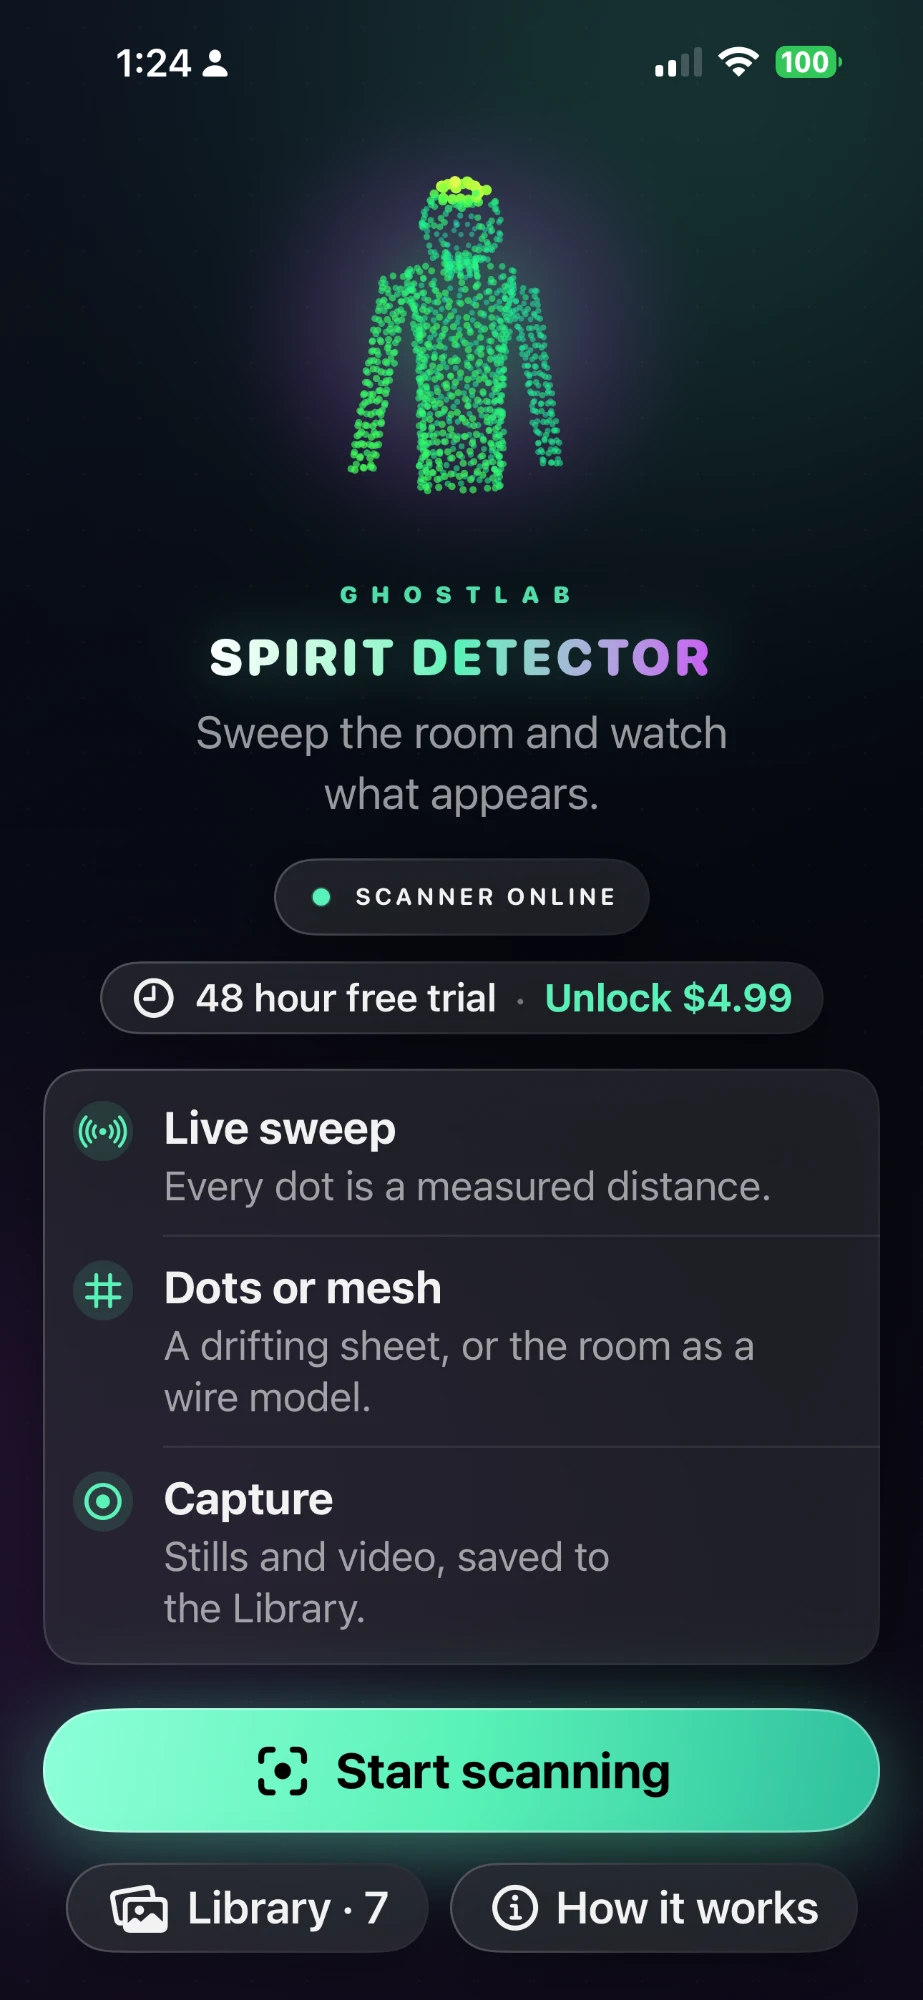
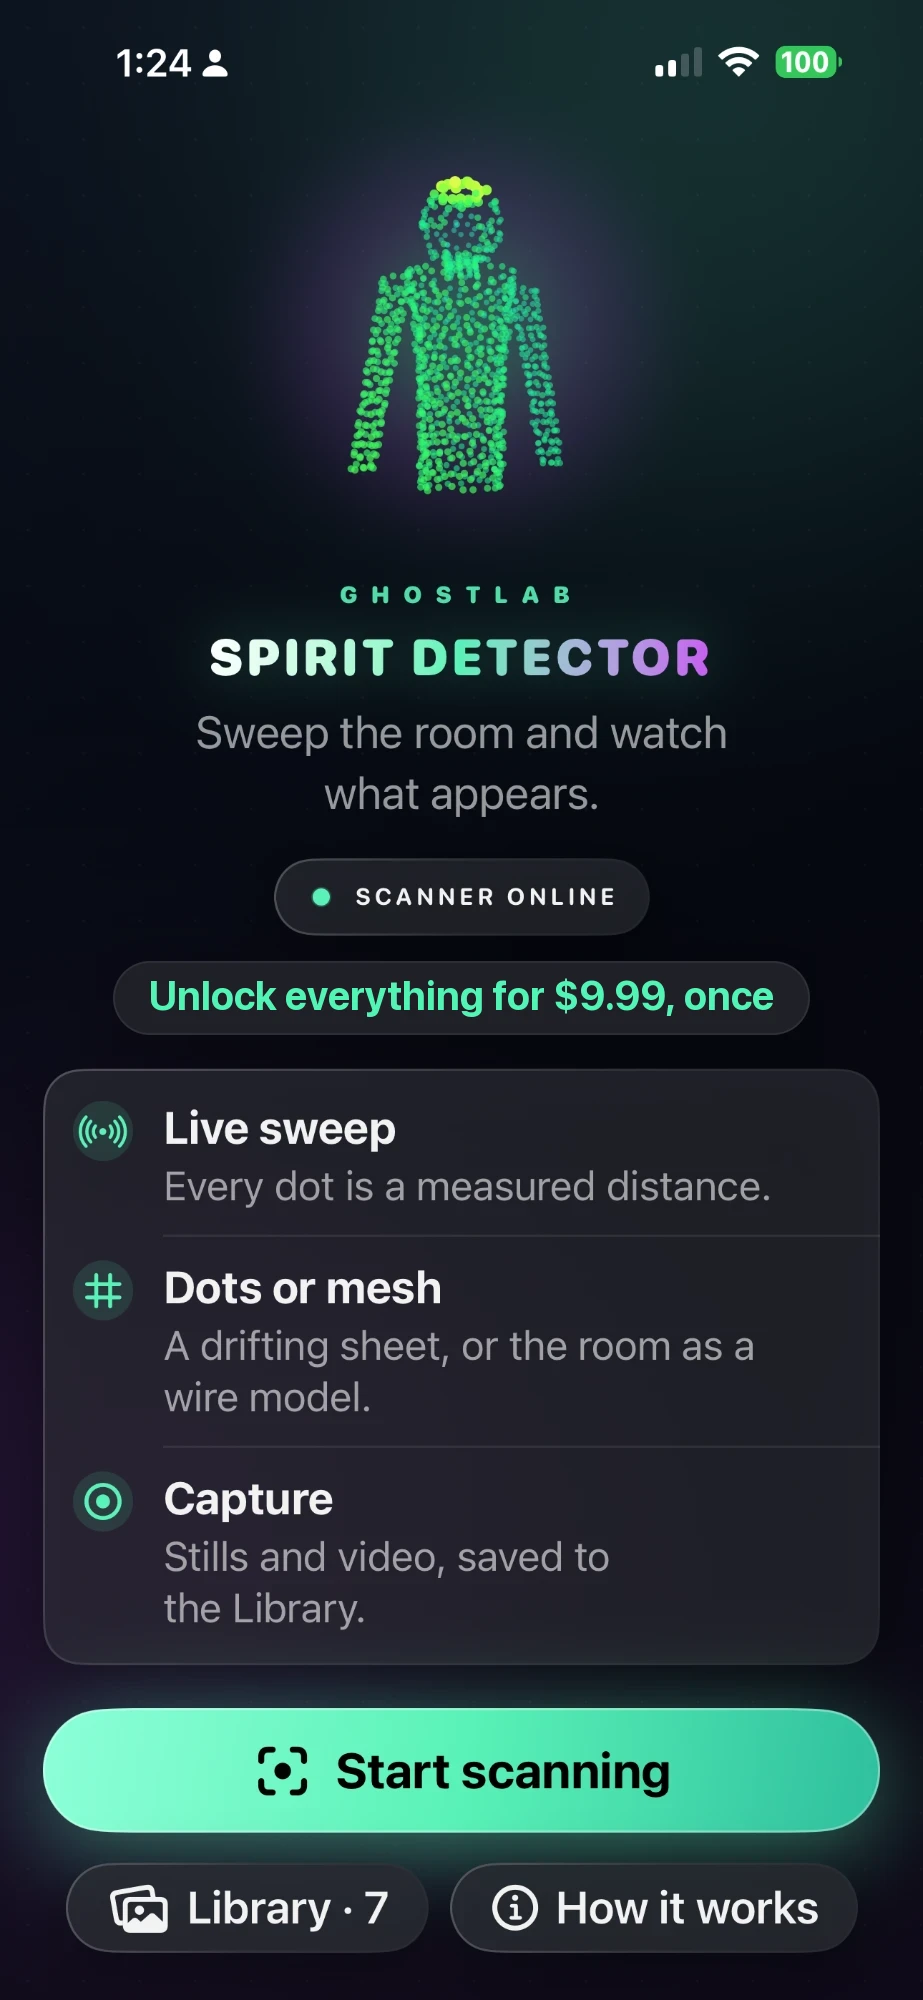
Spirit Detector: $9.99 once, no free trial for new customers
The privacy page, the Spirit Detector page, Quiet Hours and the Halloween
FAQ now say Spirit Detector is $9.99 once for everything, bought only on
iPhone Pro or iPad Pro. The privacy page keeps a line for trials already
running and for earlier buyers' one 3D Map and clips trial. The home
screenshot's trial chip now shows the 1.0.15 chip, "Unlock everything
for $9.99, once".

Changed region(s): [[0.1213, 0.465, 0.9101, 0.527]]

diff --git a/spirit-detector.html b/spirit-detector.html
@@ -6,7 +6,7 @@
   <meta name="referrer" content="strict-origin-when-cross-origin" />
   <meta name="viewport" content="width=device-width, initial-scale=1, viewport-fit=cover" />
   <title>Spirit Detector - GhostLab</title>
-  <meta name="description" content="GhostLab: Spirit Detector draws a room from the LiDAR scanner on iPhone Pro and iPad Pro, one measured dot at a time. 48 hours free from the first scan. LiDAR unlock $4.99 once. Side-by-side recording and 3D mapping are an additional $4.99 once. Complete Pro is $9.99 once." />
+  <meta name="description" content="GhostLab: Spirit Detector draws a room from the LiDAR scanner on iPhone Pro and iPad Pro, one measured dot at a time. Everything, including side-by-side recording and 3D mapping, is $9.99 once, for life." />
   <meta name="theme-color" content="#07090f" />
   <meta name="color-scheme" content="dark" />
   <link rel="canonical" href="https://ghostlab.icu/spirit-detector.html" />
@@ -171,11 +171,11 @@
             <a class="store-badge store-badge-apple" data-store-keep href="https://apps.apple.com/us/app/ghostlab-spirit-detector/id6814905065" target="_blank" rel="noopener noreferrer">
               <img src="assets/store/download-on-the-app-store.svg?v=20261002-cache" width="120" height="40" alt="Download GhostLab: Spirit Detector on the App Store" />
             </a>
-            <p class="sd-price"><strong>48 hours free</strong> from the first scan, then $4.99 once. Side-by-side recording and 3D mapping are an additional $4.99 once. Complete Pro is $9.99 once. No subscription. No ads.</p>
+            <p class="sd-price"><strong>$9.99 once, yours for life.</strong> Scanning, side-by-side recording and 3D mapping all included. No subscription. No ads.</p>
           </div>
         </div>
         <div class="shot-frame sd-hero-shot">
-          <img src="assets/spiritdetector/home.webp?v=20261002-cache" width="923" height="2000" alt="Spirit Detector home screen: a standing figure drawn in green dots above the name, a Scanner Online status, the 48 hour free trial, and a Start scanning button" />
+          <img src="assets/spiritdetector/home.webp?v=20261116" width="923" height="2000" alt="Spirit Detector home screen: a standing figure drawn in green dots above the name, a Scanner Online status, Unlock everything for $9.99 once, and a Start scanning button" />
         </div>
       </header>
 
@@ -209,7 +209,7 @@
               <li>Dots, mesh, or both, switched without losing the map you have built</li>
               <li>Flashlight in the top bar, for rooms too dark to track in</li>
               <li>Snapshot and Record from the dock, saved to the Library</li>
-              <li>Side-by-side recording and 3D mapping are an additional $4.99 once</li>
+              <li>Side-by-side recording and 3D mapping are included</li>
               <li>Share a capture with the team, or save it to Photos</li>
             </ul>
           </div>
@@ -256,7 +256,7 @@
               <svg viewBox="0 0 24 24" fill="none" stroke="currentColor" stroke-width="1.75" stroke-linecap="round" stroke-linejoin="round"><rect x="3" y="6" width="13" height="12" rx="2.5"/><path d="m16 10.5 5-3v9l-5-3"/></svg>
             </div>
             <h3>Record for the review</h3>
-            <p>Park the phone on a doorway or hallway and record. Stills and video land in the Library, ready to watch back, share with the team, or save to Photos. Side-by-side recording and 3D mapping are an additional $4.99 once.</p>
+            <p>Park the phone on a doorway or hallway and record. Stills and video land in the Library, ready to watch back, share with the team, or save to Photos. With side-by-side recording, the room and the camera play together in one video.</p>
           </article>
           <article class="card reveal">
             <div class="card-icon warning" aria-hidden="true">
@@ -332,8 +332,8 @@
             <div class="card-icon magenta" aria-hidden="true">
               <svg viewBox="0 0 24 24" fill="none" stroke="currentColor" stroke-width="1.75" stroke-linecap="round" stroke-linejoin="round"><circle cx="12" cy="12" r="8.5"/><path d="M12 7.5V12l3 2"/></svg>
             </div>
-            <h3>Two days free, then yours</h3>
-            <p>Every feature is open for 48 hours from your first scan. Then the LiDAR unlock is $4.99 once. Side-by-side recording and 3D mapping are an additional $4.99 once. The complete Pro version is $9.99 once.</p>
+            <h3>One payment, yours for life</h3>
+            <p>$9.99 once unlocks every feature: live scanning, side-by-side recording and 3D mapping. It can be bought only on an iPhone Pro or iPad Pro, the models with the LiDAR scanner. If you bought Spirit Detector before, you keep it and can add side-by-side recording and 3D mapping for $4.99.</p>
           </article>
         </div>
       </section>
@@ -342,7 +342,7 @@
         <div class="final-cta reveal">
           <img class="sd-cta-icon" src="assets/sphere/spiritdetector.png?v=20261002-cache" width="88" height="88" alt="" />
           <h2>Take it on your next investigation.</h2>
-          <p class="lede">GhostLab: Spirit Detector is on the App Store for iPhone Pro and iPad Pro. 48 hours free from the first scan, then $4.99 once. Side-by-side recording and 3D mapping are an additional $4.99 once. Complete Pro is $9.99 once. It runs on its own, next to GhostLab: Paranormal Toolkit or any other kit you carry.</p>
+          <p class="lede">GhostLab: Spirit Detector is on the App Store for iPhone Pro and iPad Pro. $9.99 once, yours for life, with side-by-side recording and 3D mapping included. It runs on its own, next to GhostLab: Paranormal Toolkit or any other kit you carry.</p>
           <div class="hero-actions">
             <a class="store-badge store-badge-apple" data-store-keep href="https://apps.apple.com/us/app/ghostlab-spirit-detector/id6814905065" target="_blank" rel="noopener noreferrer">
               <img src="assets/store/download-on-the-app-store.svg?v=20261002-cache" width="120" height="40" alt="Download GhostLab: Spirit Detector on the App Store" />

diff --git a/privacy-spiritdetector.html b/privacy-spiritdetector.html
@@ -30,7 +30,7 @@
 
 <p style="margin:0 0 1rem"><a href="index.html">← GhostLab home</a> · <a href="support.html">Support</a></p>
 <h1>GhostLab: Spirit Detector Privacy Policy</h1>
-<p class="updated">Effective date: November 12, 2026 · Applies to the iOS app “GhostLab: Spirit Detector”</p>
+<p class="updated">Effective date: November 16, 2026 · Applies to the iOS app “GhostLab: Spirit Detector”</p>
 
 <p>GhostLab: Spirit Detector draws what the LiDAR scanner on iPhone Pro and iPad Pro measures,
 as points of light and as a wire model of the room. It has no user accounts and no servers of our
@@ -71,10 +71,10 @@ you start your first scan.</p>
   <li><strong>Settings</strong>: your view (dots, mesh, or both), colour, dot size, glow, and
       whether captures also go to Photos are kept on the device so the app opens the way you
       left it.</li>
-  <li><strong>Trial and purchase state</strong>: the time your 48-hour trial started and what you
-      have bought are kept in this device’s keychain, so the app works offline. These
-      entries stay on the device and are not synced to iCloud. iOS can keep keychain entries after
-      an app is deleted, so the trial start may still be there if you reinstall.</li>
+  <li><strong>Purchase and trial state</strong>: what you have bought, and the time a 48-hour
+      trial started on this device, are kept in this device’s keychain, so the app works offline.
+      These entries stay on the device and are not synced to iCloud. iOS can keep keychain entries
+      after an app is deleted, so a trial start may still be there if you reinstall.</li>
 </ul>
 
 <h2>Photos and sharing</h2>
@@ -87,15 +87,20 @@ you start your first scan.</p>
 </ul>
 
 <h2>Purchases</h2>
-<p>Spirit Detector is free for 48 hours from your first scan. After that, one-time purchases
-unlock it for good: Spirit Detector for the scanner, 3D Map &amp; Clips for rooms and clips, or Pro
-for both. Purchases are handled entirely by Apple through StoreKit and the App Store. We receive no
+<p>Spirit Detector is free to download. One payment of $9.99 (Spirit Detector Pro) unlocks
+everything for good: live scanning, 3D Map and side-by-side clips. There is no subscription. It can
+be bought only on an iPhone Pro or iPad Pro, the models with the LiDAR scanner the app needs.</p>
+<p>Earlier versions also gave new users 48 hours free from their first scan, and a trial that has
+already started runs until its 48 hours are up. If you bought the earlier Spirit Detector
+unlock, you keep it, and you can try 3D Map and clips free for 48 hours once and then add them with
+3D Map &amp; Clips.</p>
+<p>Purchases are handled entirely by Apple through StoreKit and the App Store. We receive no
 payment details and nothing that identifies you. The usage statistics note which product was
 bought and its price, as described below. You can restore a purchase on a new device from the
 unlock screen.</p>
 
 <h2 id="usage-statistics">Usage statistics</h2>
-<p>GhostLab: Spirit Detector uses Google Analytics for Firebase to count how the app is used, so we can see how many people start a scan, use 3D Map, start the trial or unlock the app, and where they stop.</p>
+<p>GhostLab: Spirit Detector uses Google Analytics for Firebase to count how the app is used, so we can see how many people start a scan, use 3D Map, start a trial or unlock the app, and where they stop.</p>
 <p>It records:</p>
 <ul>
   <li>What you do in the app, in general terms: starting a scan or 3D Map, saving a snapshot, recording, room or clip and how long it is, opening the share sheet and the kind of item you share (a snapshot, a recording, a clip or a room), the app you shared to when it is a well-known one such as TikTok or Messages, opening the unlock screen, starting a trial, and how a purchase ended, with the product, its price and currency.</li>

diff --git a/halloween-ghost-hunt.html b/halloween-ghost-hunt.html
@@ -289,7 +289,7 @@
       "name": "How much do the apps cost?",
       "acceptedAnswer": {
         "@type": "Answer",
-        "text": "Paranormal Toolkit is free to download, and EMF and Classic EVP stay free. GhostLab Pro is $9.99 one time. Dead Channel is free for 48 hours, then $7.99 once. Spirit Detector is free for 48 hours from the first scan, then $4.99 once for the LiDAR unlock. Side-by-side recording and 3D mapping are an additional $4.99 once. The complete Pro version is $9.99 once. None of them are subscriptions."
+        "text": "Paranormal Toolkit is free to download, and EMF and Classic EVP stay free. GhostLab Pro is $9.99 one time. Dead Channel is free for 48 hours, then $7.99 once. Spirit Detector is $9.99 once, with side-by-side recording and 3D mapping included. None of them are subscriptions."
       }
     },
     {
@@ -297,7 +297,7 @@
       "name": "How do the free trials work?",
       "acceptedAnswer": {
         "@type": "Answer",
-        "text": "The Spirit Detector trial starts with your first scan, and the Dead Channel trial starts when you begin it. Each lasts 48 hours. After that, Spirit Detector is $4.99 once for the LiDAR unlock, side-by-side recording and 3D mapping are an additional $4.99 once, and the complete Pro version is $9.99 once. Dead Channel is $7.99 once."
+        "text": "Spirit Detector has no free trial. It is $9.99 once. The Dead Channel trial starts when you begin it and lasts 48 hours. After that, Dead Channel is $7.99 once."
       }
     },
     {
@@ -437,7 +437,7 @@
           </div>
           <div class="phone hh-phone hh-phone-3">
             <div class="phone-screen">
-              <img src="assets/spiritdetector/home.webp?v=20261002-cache" alt="GhostLab: Spirit Detector home screen with a standing figure drawn in green dots above the app name and a Start scanning button" width="923" height="2000" />
+              <img src="assets/spiritdetector/home.webp?v=20261116" alt="GhostLab: Spirit Detector home screen with a standing figure drawn in green dots above the app name and a Start scanning button" width="923" height="2000" />
             </div>
           </div>
         </div>
@@ -687,11 +687,11 @@
           </details>
           <details>
             <summary>How much do the apps cost?</summary>
-            <p>Paranormal Toolkit is free to download, and EMF and Classic EVP stay free. GhostLab Pro is $9.99 one time. Dead Channel is free for 48 hours, then $7.99 once. Spirit Detector is free for 48 hours from the first scan, then $4.99 once for the LiDAR unlock. Side-by-side recording and 3D mapping are an additional $4.99 once. The complete Pro version is $9.99 once. None of them are subscriptions.</p>
+            <p>Paranormal Toolkit is free to download, and EMF and Classic EVP stay free. GhostLab Pro is $9.99 one time. Dead Channel is free for 48 hours, then $7.99 once. Spirit Detector is $9.99 once, with side-by-side recording and 3D mapping included. None of them are subscriptions.</p>
           </details>
           <details>
             <summary>How do the free trials work?</summary>
-            <p>The Spirit Detector trial starts with your first scan, and the Dead Channel trial starts when you begin it. Each lasts 48 hours. After that, Spirit Detector is $4.99 once for the LiDAR unlock, side-by-side recording and 3D mapping are an additional $4.99 once, and the complete Pro version is $9.99 once. Dead Channel is $7.99 once.</p>
+            <p>Spirit Detector has no free trial. It is $9.99 once. The Dead Channel trial starts when you begin it and lasts 48 hours. After that, Dead Channel is $7.99 once.</p>
           </details>
           <details>
             <summary>What do the apps actually record?</summary>

diff --git a/quiet-hours.html b/quiet-hours.html
@@ -88,9 +88,8 @@
             <p>The LiDAR scanner draws the room as measured dots. Walk it first, with the lights still on, so doorways, stairs, and furniture are on record before the session starts.</p>
             <ul class="feature-list">
               <li>iPhone 12 Pro or a later Pro model, or an iPad Pro from 2020 on, with iOS 17 or later</li>
-              <li>48 hours free from the first scan, then $4.99 once</li>
-              <li>Side-by-side recording and 3D mapping are an additional $4.99 once</li>
-              <li>The complete Pro version of Spirit Detector is $9.99 once</li>
+              <li>$9.99 once, yours for life</li>
+              <li>Side-by-side recording and 3D mapping are included</li>
             </ul>
           </article>
           <article class="card reveal">
@@ -142,7 +141,7 @@
           <div class="grid-3" style="text-align:left;margin-top:28px">
             <article class="card">
               <h3>GhostLab: Spirit Detector</h3>
-              <p>48 hours free from the first scan, then $4.99 once. Side-by-side recording and 3D mapping are an additional $4.99 once. The complete Pro version of Spirit Detector is $9.99 once. App Store, LiDAR iPhone and iPad Pro.</p>
+              <p>$9.99 once, yours for life, with side-by-side recording and 3D mapping included. App Store, LiDAR iPhone and iPad Pro.</p>
               <div class="hero-actions">
                 <a class="store-badge store-badge-apple" data-store-keep href="https://apps.apple.com/us/app/ghostlab-spirit-detector/id6814905065" target="_blank" rel="noopener noreferrer">
                   <img src="assets/store/download-on-the-app-store.svg?v=20261002-cache" width="120" height="40" alt="Download GhostLab: Spirit Detector on the App Store" />

diff --git a/index.html b/index.html
@@ -300,7 +300,7 @@
             </a>
             <a class="phone hh-phone hh-phone-4" href="spirit-detector.html" aria-label="GhostLab: Spirit Detector">
               <div class="phone-screen">
-                <img src="assets/spiritdetector/home.webp?v=20261002-cache" alt="Spirit Detector home screen: a standing figure drawn in green dots above the name, a Scanner Online status, the 48 hour free trial, and a Start scanning button" width="923" height="2000" decoding="async" />
+                <img src="assets/spiritdetector/home.webp?v=20261116" alt="Spirit Detector home screen: a standing figure drawn in green dots above the name, a Scanner Online status, Unlock everything for $9.99 once, and a Start scanning button" width="923" height="2000" decoding="async" />
               </div>
             </a>
             <a class="phone hh-phone hh-phone-5" href="gridsight.html" aria-label="GhostLab: GridSight">
